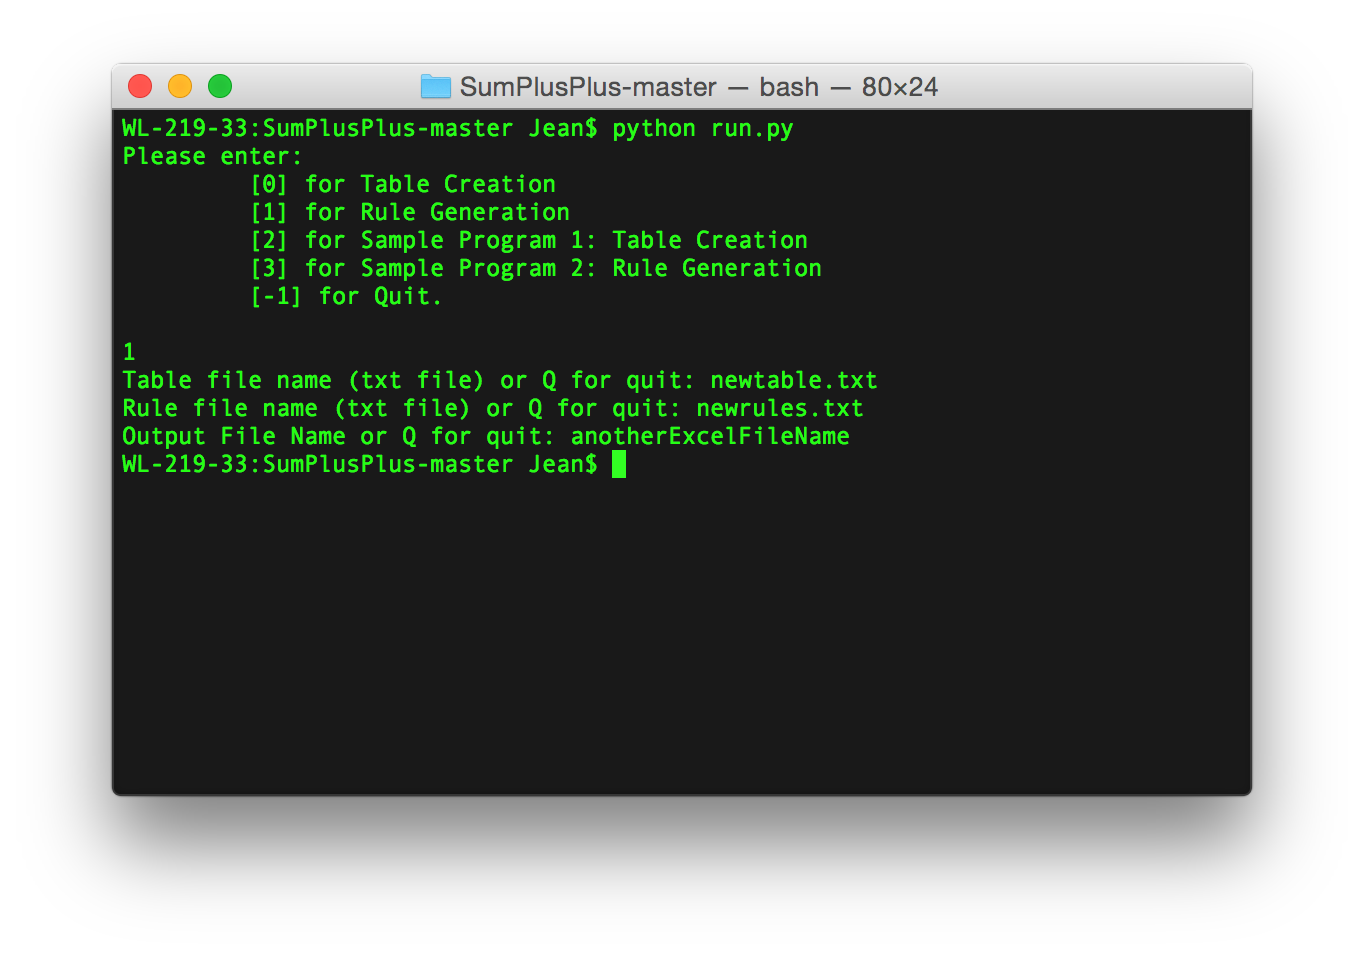
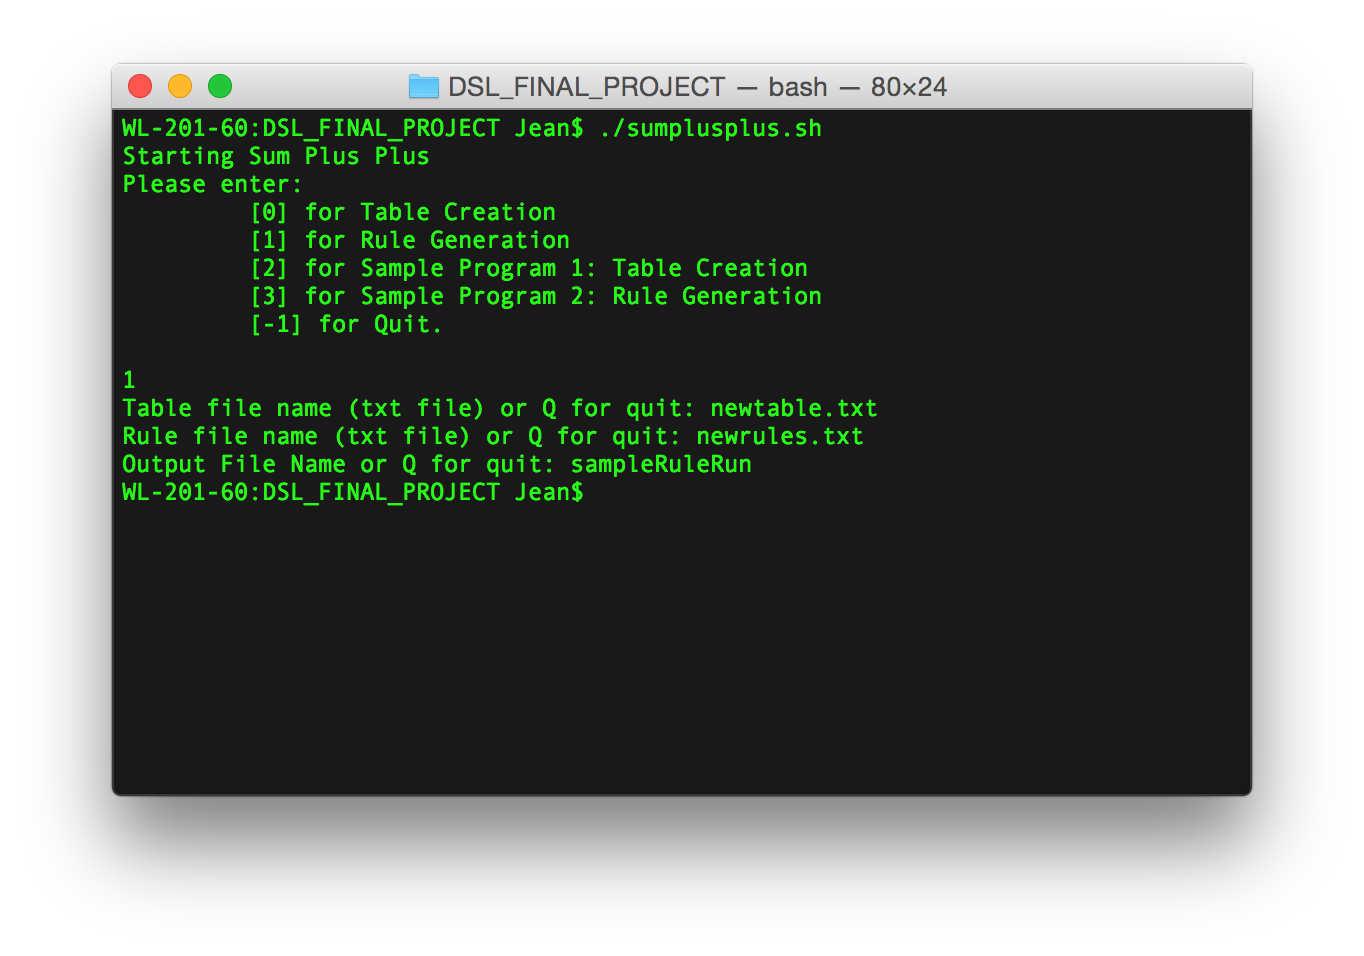
started info page update

Changed region(s): [[0.0924, 0.0607, 0.7082, 0.364], [0.0924, 0.364, 0.6466, 0.546]]

diff --git a/index.html b/index.html
@@ -149,10 +149,10 @@ Rules = {Rule} ;
 
 <p><strong>Creating the Excel Sandbox file:</strong></p>
 
-<p>To create an initial Excel Sandbox table you must have a table file in the <code>input_files</code> directory. Then, use the command <code>python run.py</code> and type <code>0</code> for the option. 
+<p>To create an initial Excel Sandbox table you must have a table file in the <code>input_files</code> directory. Then, use the command <code>./sumplusplus.sh </code> and type <code>0</code> for the option. 
 <img src="tutorial_images/table_creation.png" alt=""></p>
 
-<p>If you want an Excel file with custom constraints too, you must have a rule file in the <code>input_files</code> directory. Then, use the command <code>python run.py</code> and type <code>1</code> for the option. 
+<p>If you want an Excel file with custom constraints too, you must have a rule file in the <code>input_files</code> directory. Then, use the command <code>./sumplusplus.sh  </code> and type <code>1</code> for the option. 
 <img src="tutorial_images/rule_generation.png" alt=""></p>
 
 <p>All output files get written into the <code>output_files</code> directory. 
